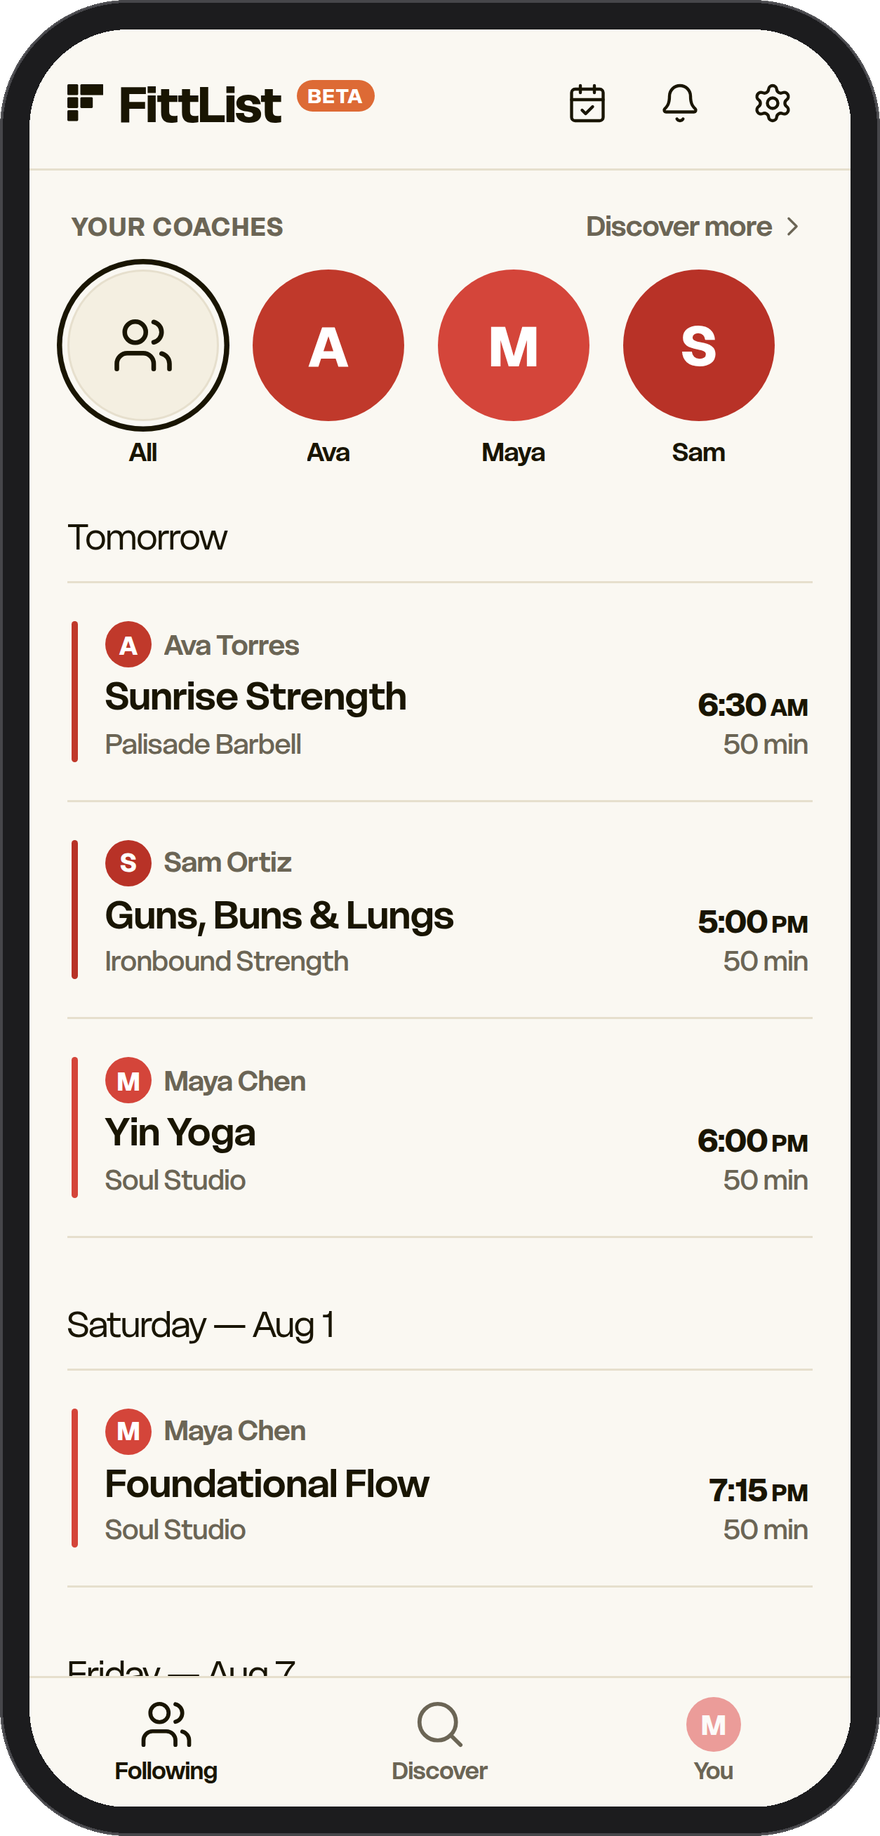
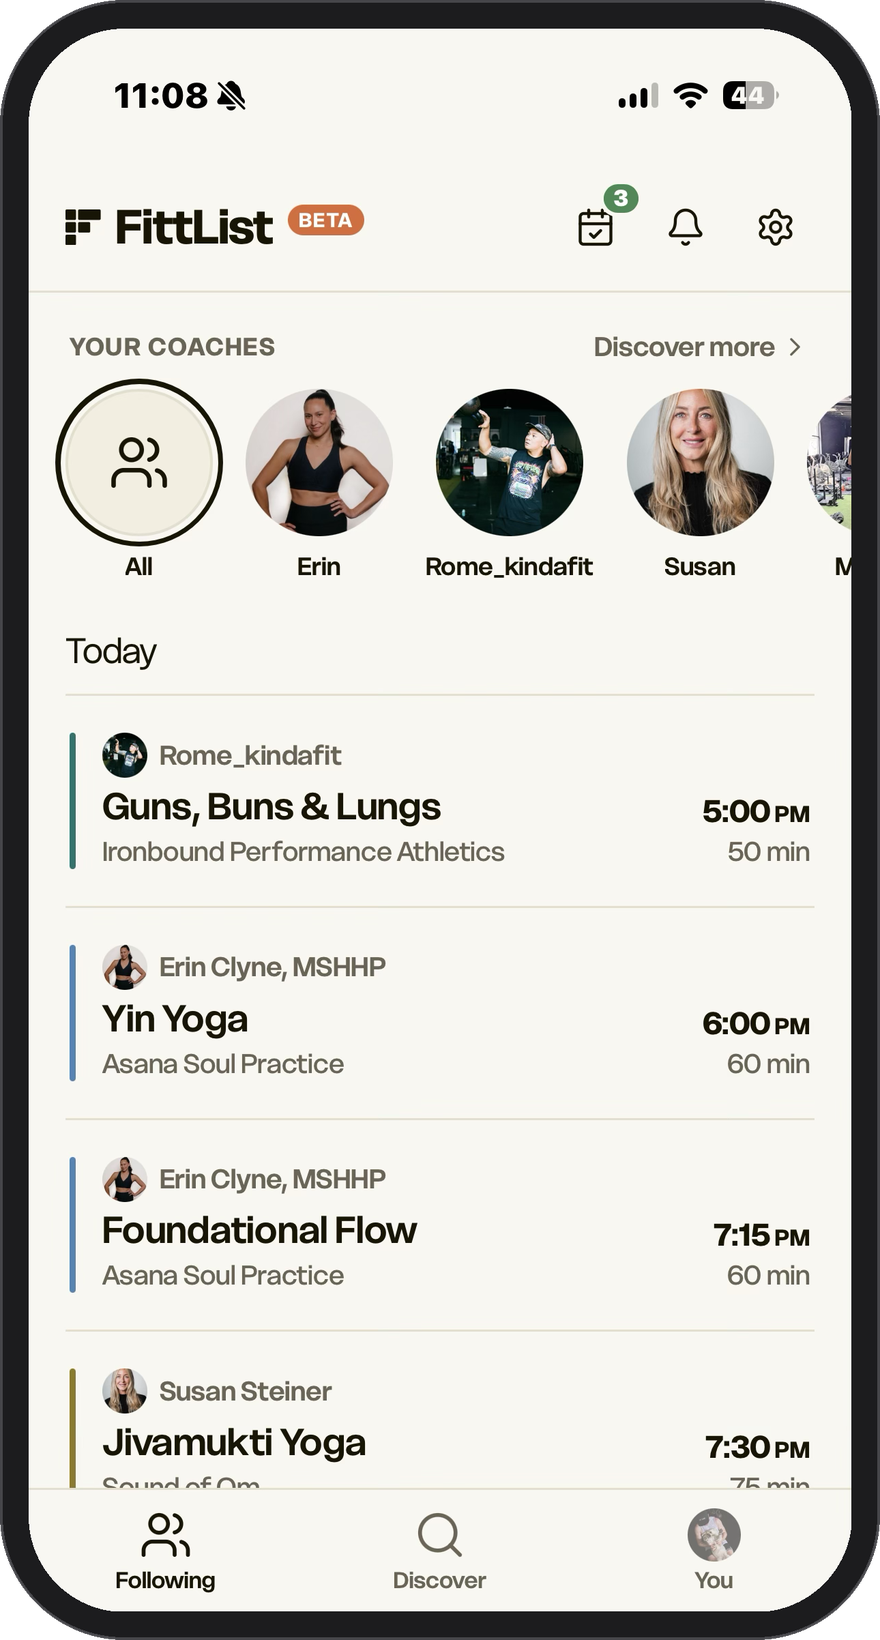
The link preview's phone shows the real feed
The floating phone swaps the demo-seeded screenshot for the live app: real
coaches on the rail, a real day of classes, the status bar kept for the
phone-in-hand feel. Cropped above Safari's chrome and framed the same way.

Claude-Session: https://claude.ai/code/session_01E7Ko4GZdkyaGNMw77VdVUx

diff --git a/src/app/api/og/route.tsx b/src/app/api/og/route.tsx
@@ -89,7 +89,7 @@ export async function GET() {
           src={phoneUri}
           alt=""
           width={440}
-          height={918}
+          height={820}
           style={{ position: "absolute", top: 76, right: 72 }}
         />
       </div>
